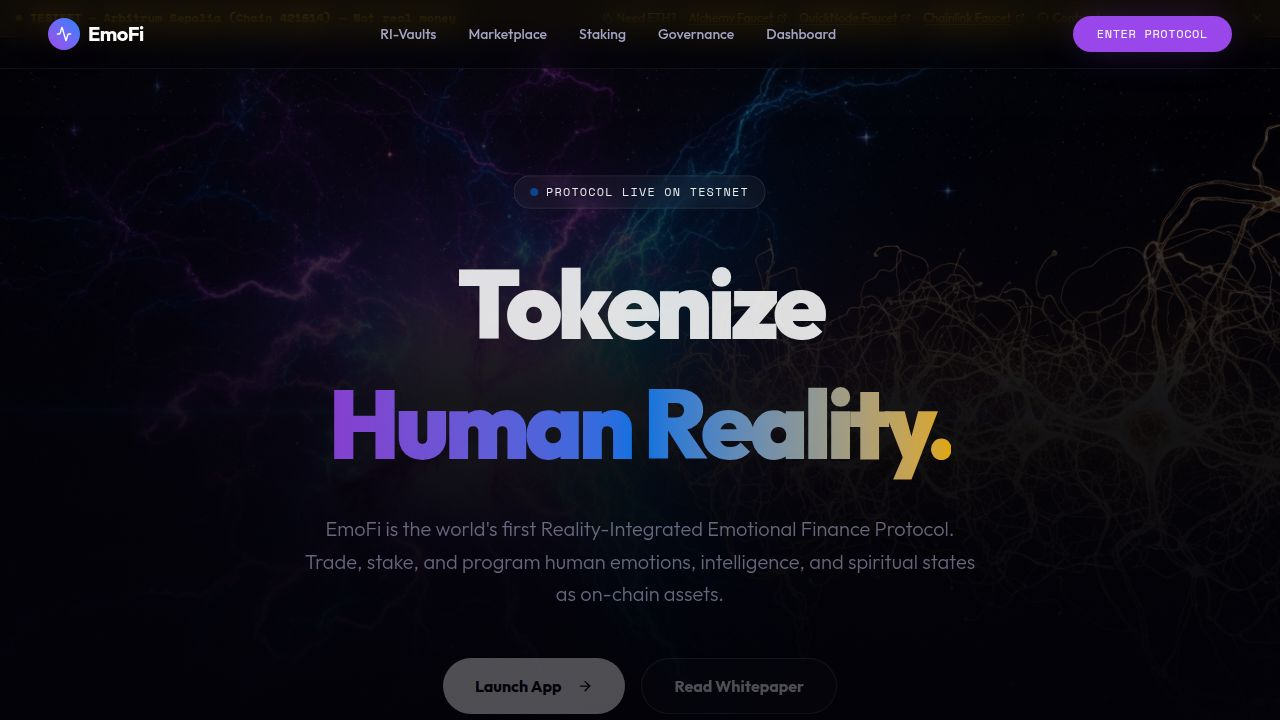
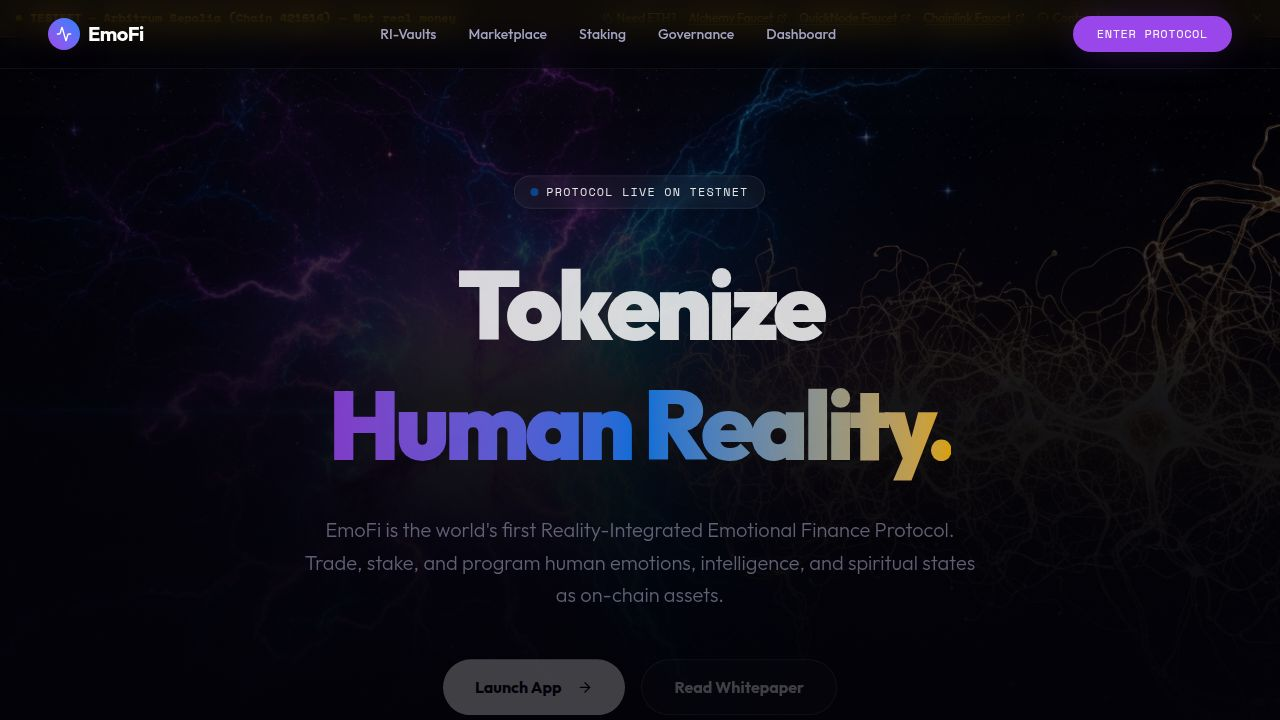
Fix user wallet address case sensitivity and display wallet button on home page
Address normalization to lowercase is implemented in the user registration POST endpoint and WalletContext to resolve case sensitivity issues. The home page navigation is updated to display the WalletButton component.

Replit-Commit-Author: Agent
Replit-Commit-Session-Id: c95eb66c-5eb3-44cc-bb03-78b727b6f7f6
Replit-Commit-Checkpoint-Type: full_checkpoint
Replit-Commit-Event-Id: 8b70a10d-babd-4012-983b-5ee8f00ab144
Replit-Commit-Screenshot-Url: https://storage.googleapis.com/screenshot-production-us-central1/db792a6a-8255-4a04-9431-f8b92424b495/c95eb66c-5eb3-44cc-bb03-78b727b6f7f6/NKX7AWM
Replit-Helium-Checkpoint-Created: true

diff --git a/artifacts/emofi/src/pages/home.tsx b/artifacts/emofi/src/pages/home.tsx
@@ -3,6 +3,7 @@ import { Link } from "wouter";
 import { motion, useScroll, useTransform, AnimatePresence } from "framer-motion";
 import { ChevronRight, Zap, Network, Lock, Activity, Coins, ArrowRight, Brain, Heart, Sparkles, ActivitySquare, BrainCircuit, Globe, GitMerge, Shield, Rocket } from "lucide-react";
 import { Button } from "@/components/ui/button";
+import { WalletButton } from "@/components/WalletButton";
 
 // --- Components ---
 
@@ -29,11 +30,7 @@ const Navbar = () => {
         <Link href="/governance" className="hover:text-white transition-colors">Governance</Link>
         <Link href="/dashboard" className="hover:text-white transition-colors">Dashboard</Link>
       </div>
-      <Link href="/dashboard">
-        <Button className="bg-primary hover:bg-primary/90 text-white rounded-full px-6 font-mono text-xs uppercase tracking-wider glow-primary border-none" data-testid="button-whitelist-nav">
-          Enter Protocol
-        </Button>
-      </Link>
+      <WalletButton />
     </motion.nav>
   );
 };

diff --git a/artifacts/api-server/src/routes/users.ts b/artifacts/api-server/src/routes/users.ts
@@ -11,12 +11,13 @@ router.post("/users", async (req, res) => {
     res.status(400).json({ error: "Invalid request", message: body.error.message });
     return;
   }
-  const existing = await db.select().from(usersTable).where(eq(usersTable.walletAddress, body.data.walletAddress)).limit(1);
+  const normalizedAddress = body.data.walletAddress.toLowerCase();
+  const existing = await db.select().from(usersTable).where(eq(usersTable.walletAddress, normalizedAddress)).limit(1);
   if (existing.length > 0) {
     res.status(409).json({ error: "Conflict", message: "Wallet address already registered" });
     return;
   }
-  const [user] = await db.insert(usersTable).values(body.data).returning();
+  const [user] = await db.insert(usersTable).values({ ...body.data, walletAddress: normalizedAddress }).returning();
   res.status(201).json(user);
 });
 

diff --git a/artifacts/emofi/src/contexts/WalletContext.tsx b/artifacts/emofi/src/contexts/WalletContext.tsx
@@ -71,7 +71,7 @@ export function WalletProvider({ children }: { children: React.ReactNode }) {
   useEffect(() => {
     if (!address) { setUserId(null); return; }
     setIsLoadingUser(true);
-    getOrCreateUser(address).then(id => {
+    getOrCreateUser(address.toLowerCase()).then(id => {
       setUserId(id);
       setIsLoadingUser(false);
     });